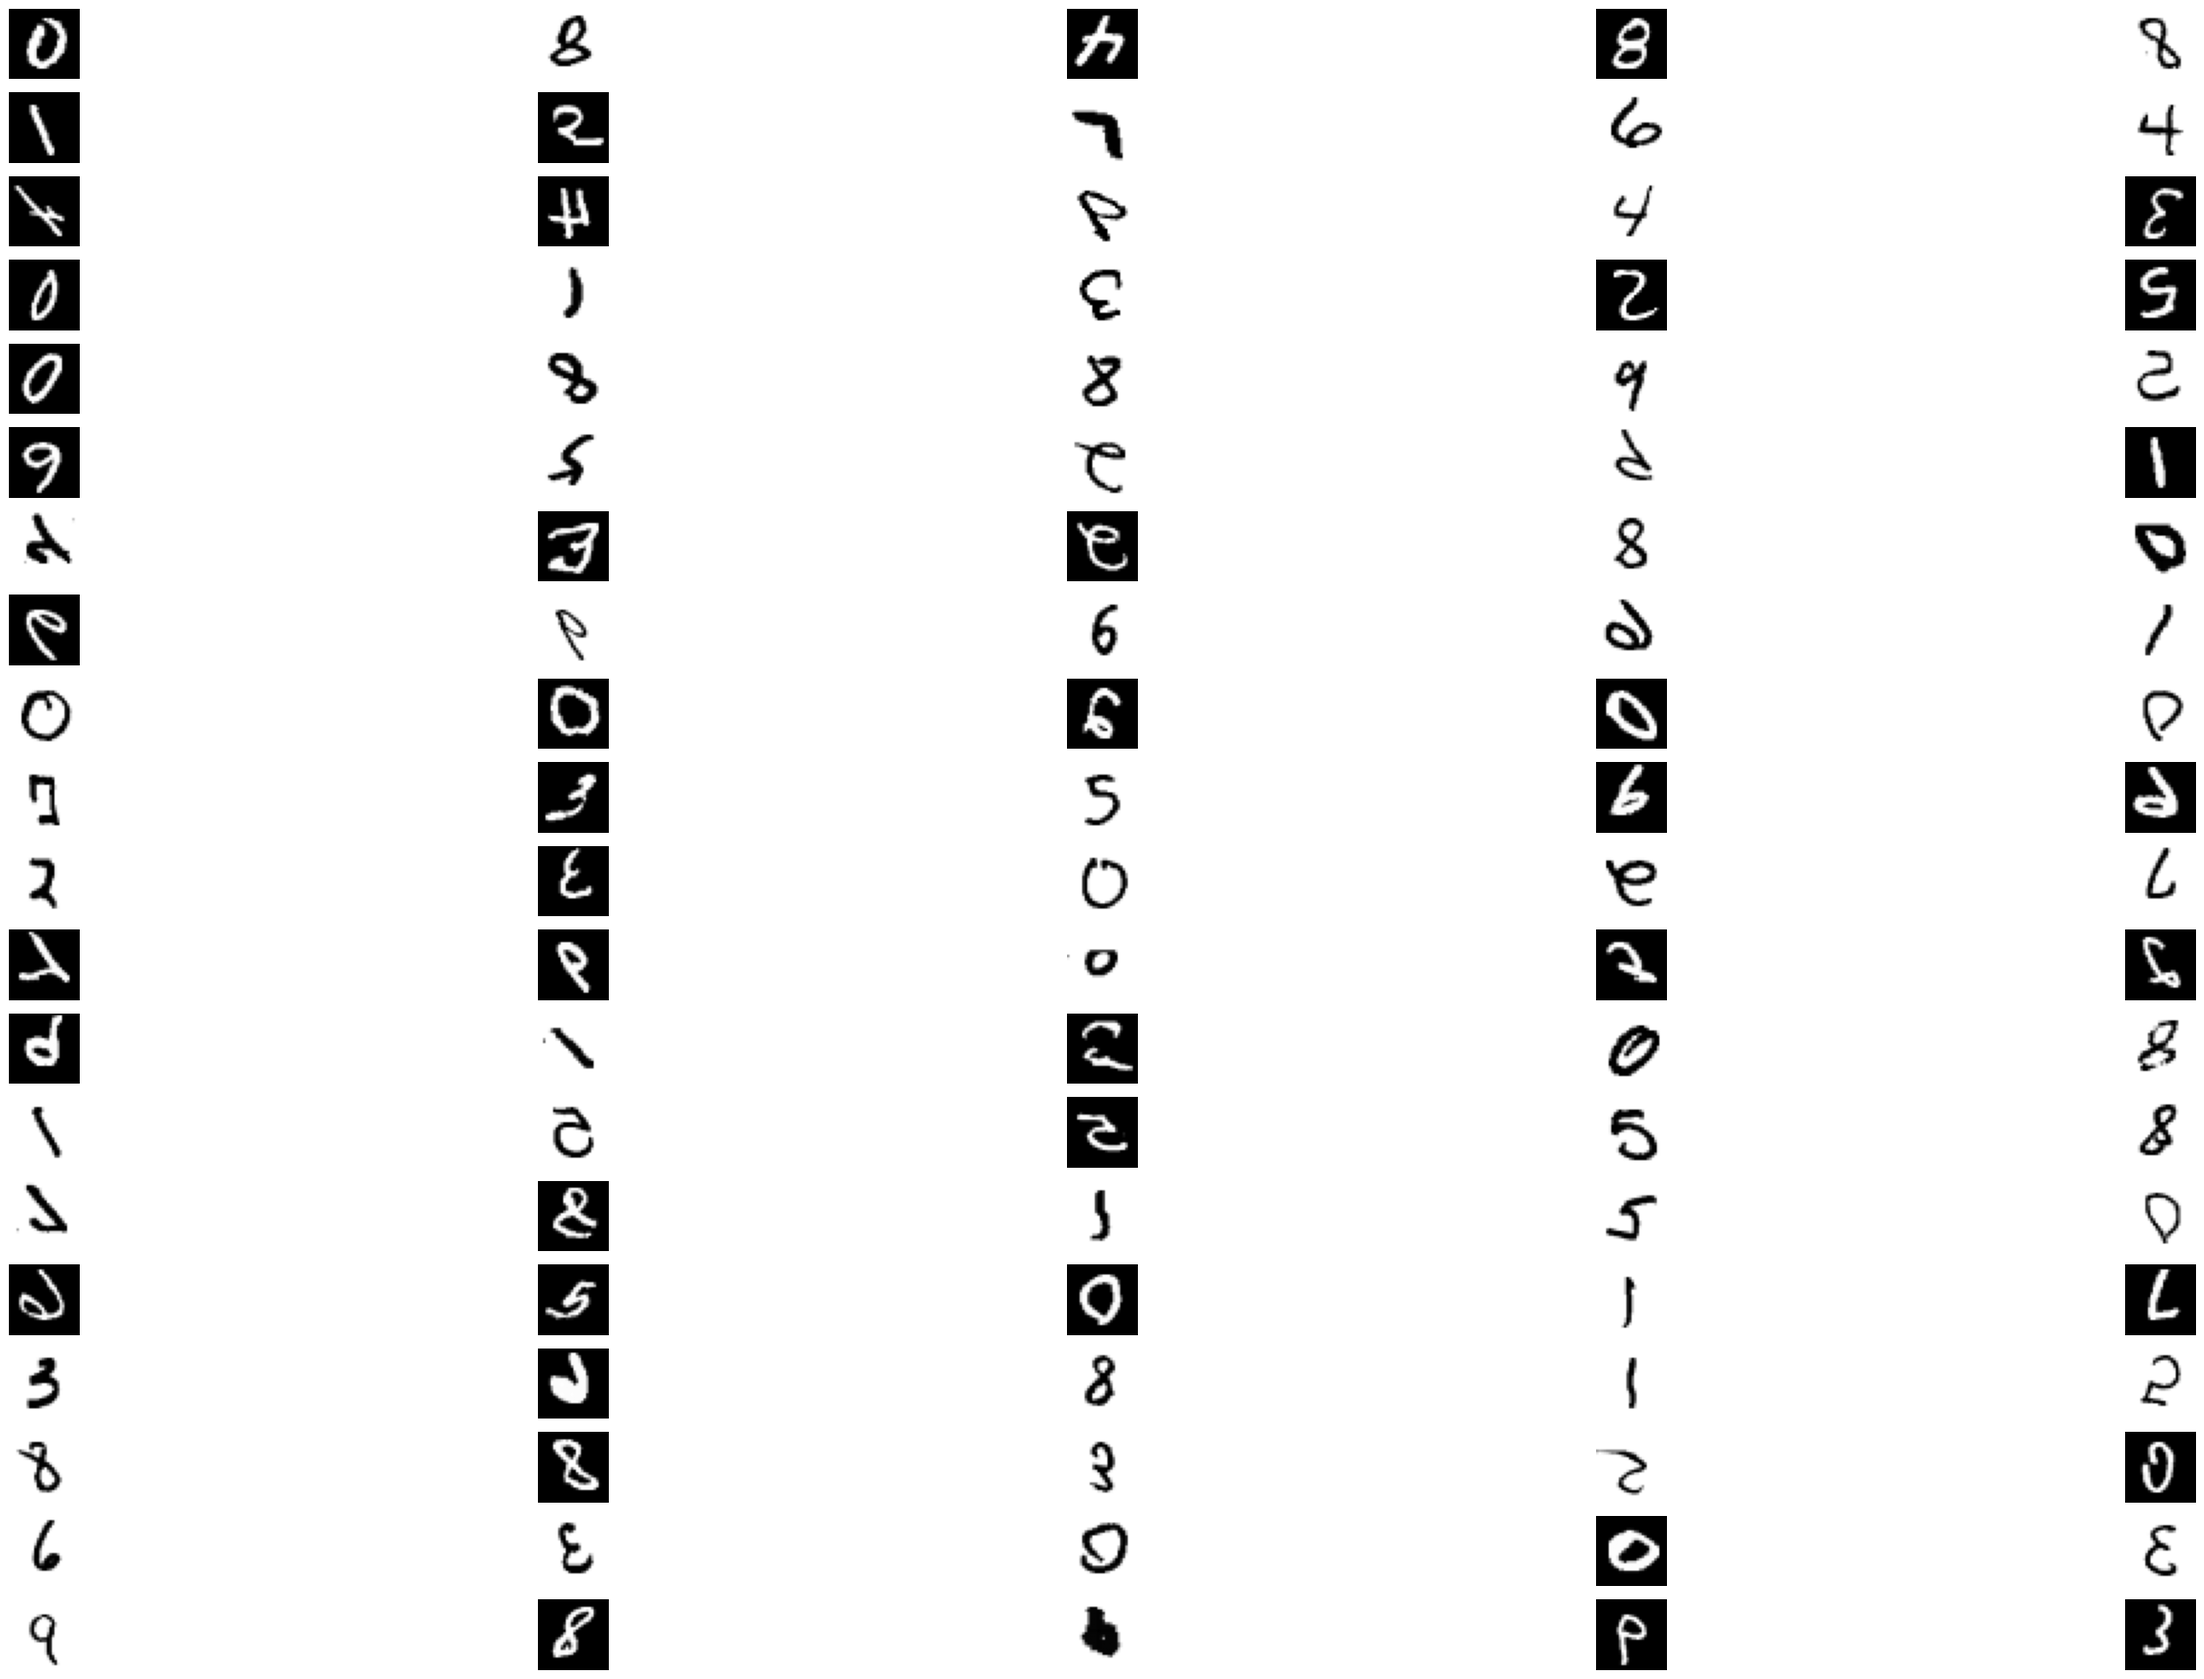
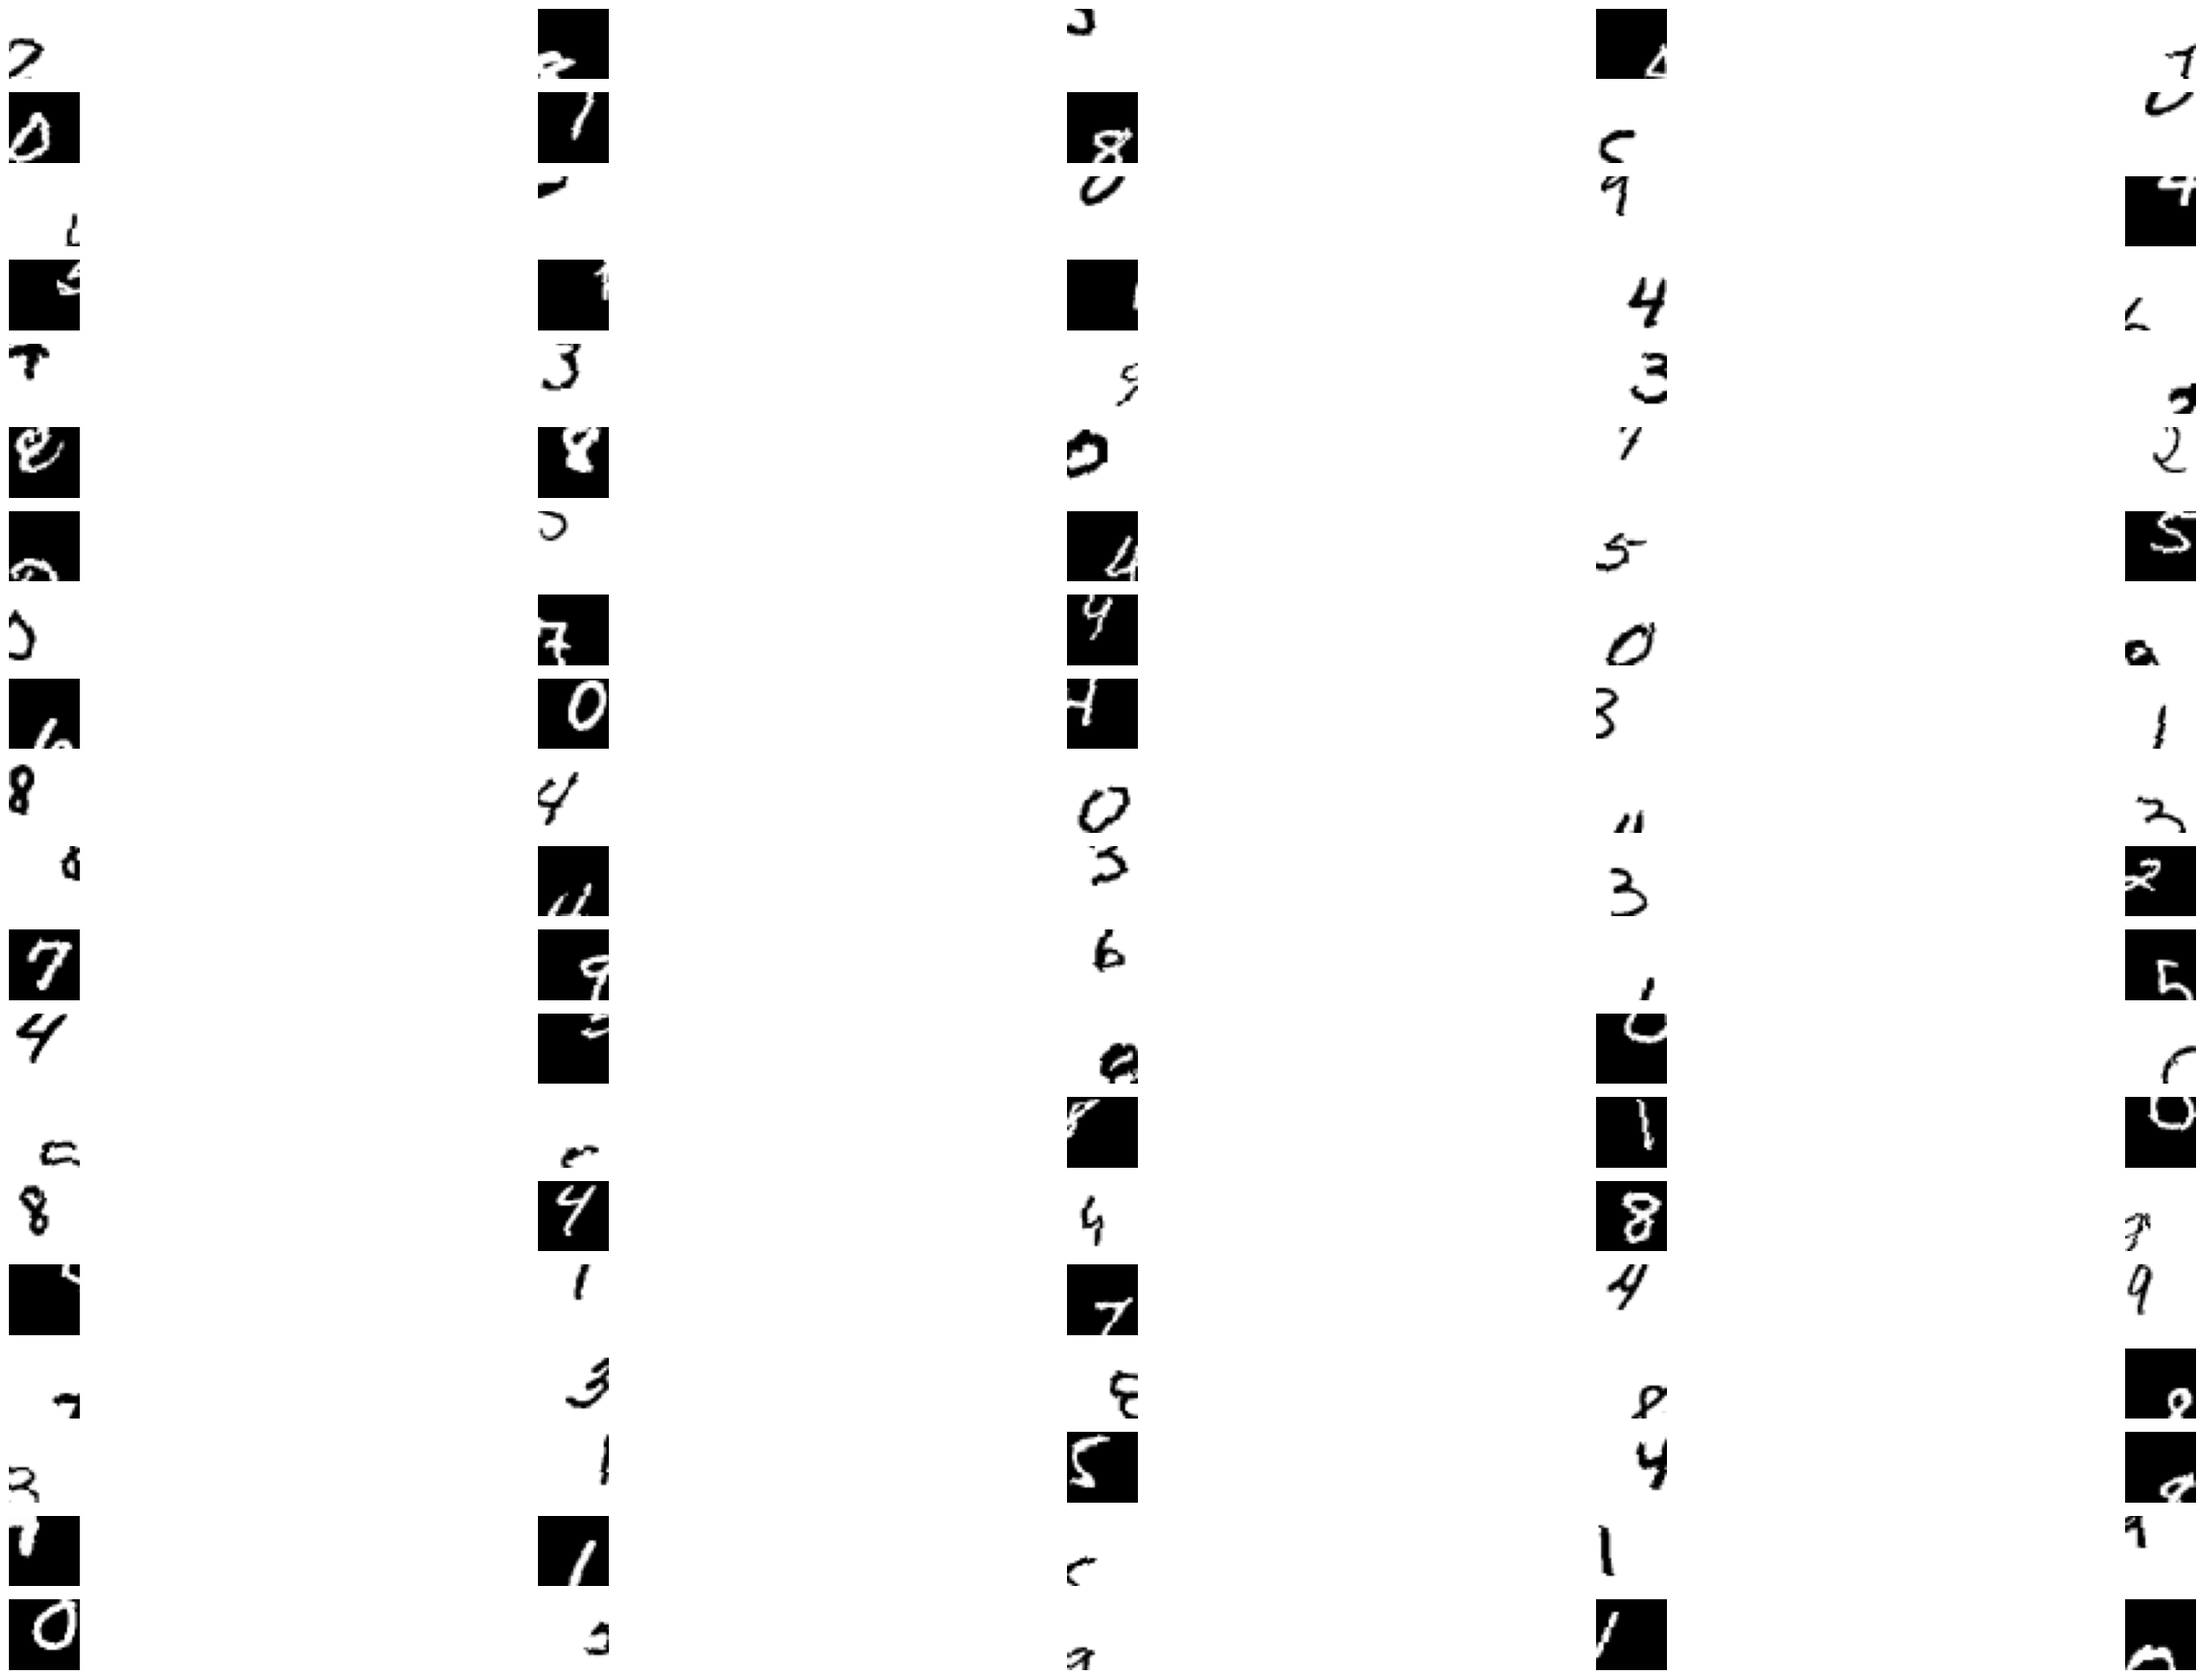
made a bigger model

diff --git a/main.py b/main.py
@@ -150,8 +150,8 @@ class MnistDataset(Dataset):
         # Apply augmentations if training
         if self.train:
             transforms = v2.Compose([
-                v2.RandomHorizontalFlip(p=0.5),
-                v2.RandomVerticalFlip(p=0.5),
+                v2.RandomRotation(degrees=10),
+                v2.RandomAffine(degrees=0, translate=(0.5, 0.5)),
                 v2.RandomInvert(p=0.5)
             ])
             image = transforms(image)
@@ -159,34 +159,68 @@ class MnistDataset(Dataset):
         return image, label
 
 
-# -------------------------------------------------------------------
-# Class: CNN
-# -------------------------------------------------------------------
-class CNN(nn.Module):
+class BasicBlock(nn.Module):
     """
-    Simple convolutional neural network for MNIST classification.
-    Architecture:
-        Conv2d(1→32) → ReLU → MaxPool
-        Conv2d(32→64) → ReLU → MaxPool
-        Flatten → Linear(64*7*7 → 128) → ReLU → Linear(128→10)
+    Basic Residual Block with two conv layers and skip connection.
     """
-    def __init__(self):
-        super(CNN, self).__init__()
-        self.conv1 = nn.Conv2d(1, 32, kernel_size=3, padding=1)
-        self.pool1 = nn.MaxPool2d(2, 2)
-        self.conv2 = nn.Conv2d(32, 64, kernel_size=3, padding=1)
-        self.pool2 = nn.MaxPool2d(2, 2)
-        self.fc1 = nn.Linear(64 * 7 * 7, 128)
-        self.fc2 = nn.Linear(128, 10)
+    def __init__(self, in_channels, out_channels, stride=1):
+        super(BasicBlock, self).__init__()
+        self.conv1 = nn.Conv2d(in_channels, out_channels, kernel_size=3,
+                               stride=stride, padding=1, bias=False)
+        self.bn1 = nn.BatchNorm2d(out_channels)
+
+        self.conv2 = nn.Conv2d(out_channels, out_channels, kernel_size=3,
+                               stride=1, padding=1, bias=False)
+        self.bn2 = nn.BatchNorm2d(out_channels)
+
+        # Shortcut to match dimensions if needed
+        self.shortcut = nn.Sequential()
+        if stride != 1 or in_channels != out_channels:
+            self.shortcut = nn.Sequential(
+                nn.Conv2d(in_channels, out_channels,
+                          kernel_size=1, stride=stride, bias=False),
+                nn.BatchNorm2d(out_channels)
+            )
 
     def forward(self, x):
-        """Forward pass producing raw logits."""
-        x = self.pool1(relu(self.conv1(x)))
-        x = self.pool2(relu(self.conv2(x)))
-        x = torch.flatten(x, 1)
-        x = relu(self.fc1(x))
-        x = self.fc2(x)
-        return x
+        out = relu(self.bn1(self.conv1(x)))
+        out = self.bn2(self.conv2(out))
+        out += self.shortcut(x)
+        out = relu(out)
+        return out
+
+class CNN(nn.Module):
+    def __init__(self, num_classes=10):
+        super(CNN, self).__init__()
+        self.in_channels = 64
+
+        self.conv1 = nn.Conv2d(1, 64, kernel_size=3, stride=1, padding=1, bias=False)
+        self.bn1 = nn.BatchNorm2d(64)
+
+        self.layer1 = self._make_layer(64, num_blocks=2, stride=1)
+        self.layer2 = self._make_layer(128, num_blocks=2, stride=2)
+        self.layer3 = self._make_layer(256, num_blocks=2, stride=2)
+
+        self.avg_pool = nn.AdaptiveAvgPool2d((1, 1))
+        self.fc = nn.Linear(256, num_classes)
+
+    def _make_layer(self, out_channels, num_blocks, stride):
+        strides = [stride] + [1] * (num_blocks - 1)  
+        layers = []
+        for s in strides:
+            layers.append(BasicBlock(self.in_channels, out_channels, s))
+            self.in_channels = out_channels
+        return nn.Sequential(*layers)
+
+    def forward(self, x):
+        out = relu(self.bn1(self.conv1(x)))
+        out = self.layer1(out)
+        out = self.layer2(out)
+        out = self.layer3(out)
+        out = self.avg_pool(out)
+        out = torch.flatten(out, 1)
+        out = self.fc(out)
+        return out
 
 
 # -------------------------------------------------------------------
@@ -319,4 +353,4 @@ if __name__ == '__main__':
     show_images(images, f'{CURR_DIR}/random_100.png')
 
     print("--- Begin Training ---")
-    train(model=model, train_loader=train_loader, val_loader=val_loader, epochs=50)
+    train(model=model, train_loader=train_loader, val_loader=val_loader, epochs=200)

diff --git a/analyzer.py b/analyzer.py
@@ -3,6 +3,7 @@ import cv2
 import torch
 import numpy as np
 from main import CNN
+from main import BasicBlock
 from glob import glob
 
 DEVICE = 'cuda' if torch.cuda.is_available() else 'cpu'
